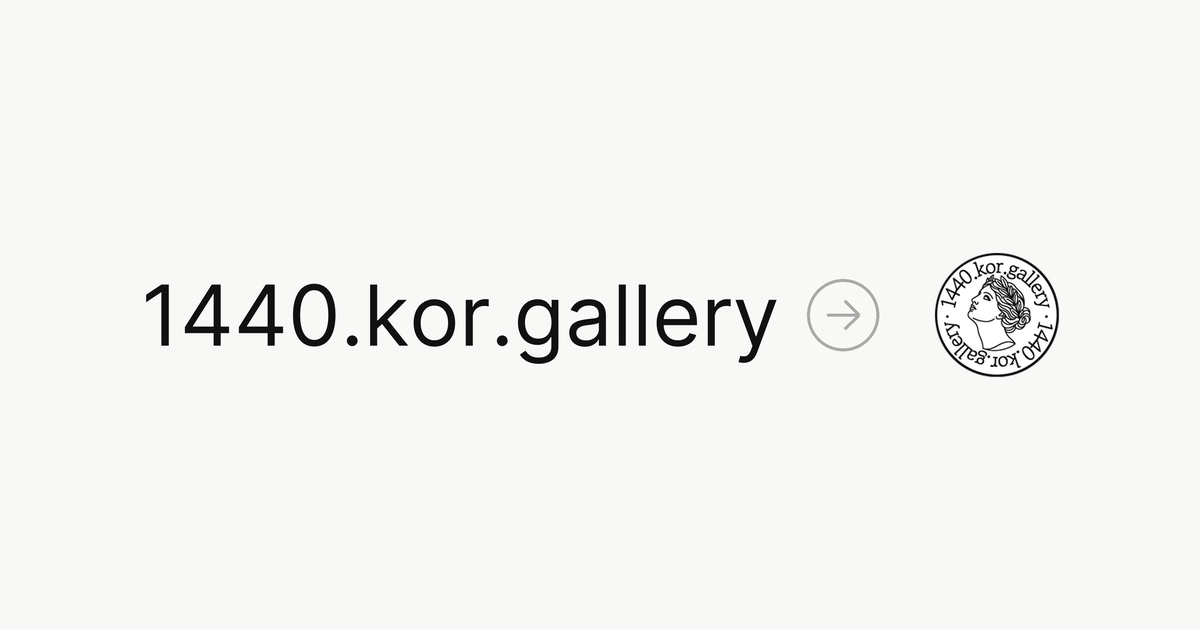
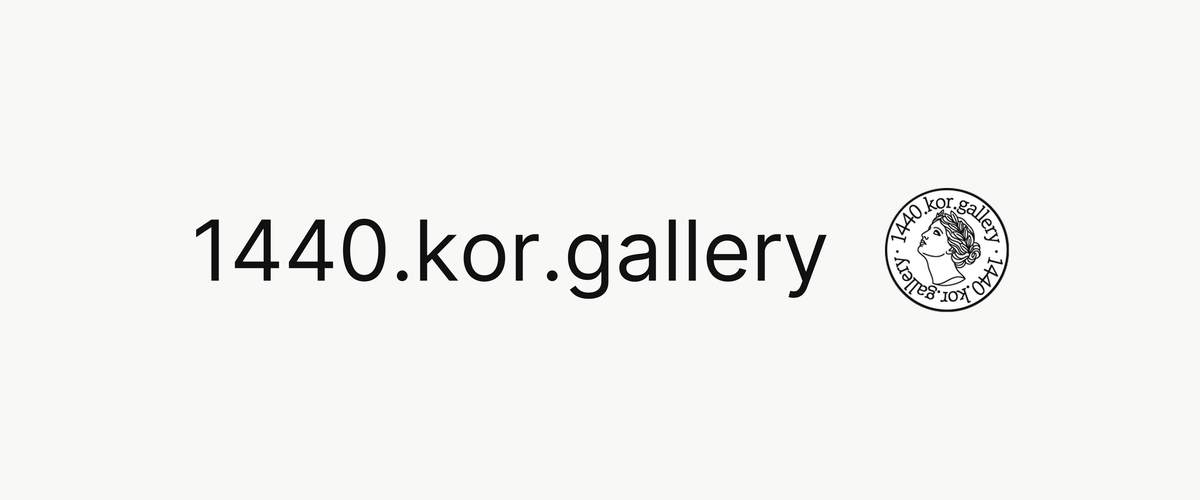
링크 미리보기: 버튼 빼고 세로 줄임(1200x500)

Changed region(s): [[0.1233, 0.36, 0.8942, 0.63]]

diff --git a/index.html b/index.html
@@ -12,7 +12,7 @@
   <meta property="og:url" content="https://1440.kor.gallery/">
   <meta property="og:image" content="https://1440.kor.gallery/assets/og.png">
   <meta property="og:image:width" content="1200">
-  <meta property="og:image:height" content="630">
+  <meta property="og:image:height" content="500">
   <meta name="twitter:card" content="summary_large_image">
   <meta name="twitter:image" content="https://1440.kor.gallery/assets/og.png">
   <link rel="icon" type="image/png" href="assets/favicon.png?v=1">
